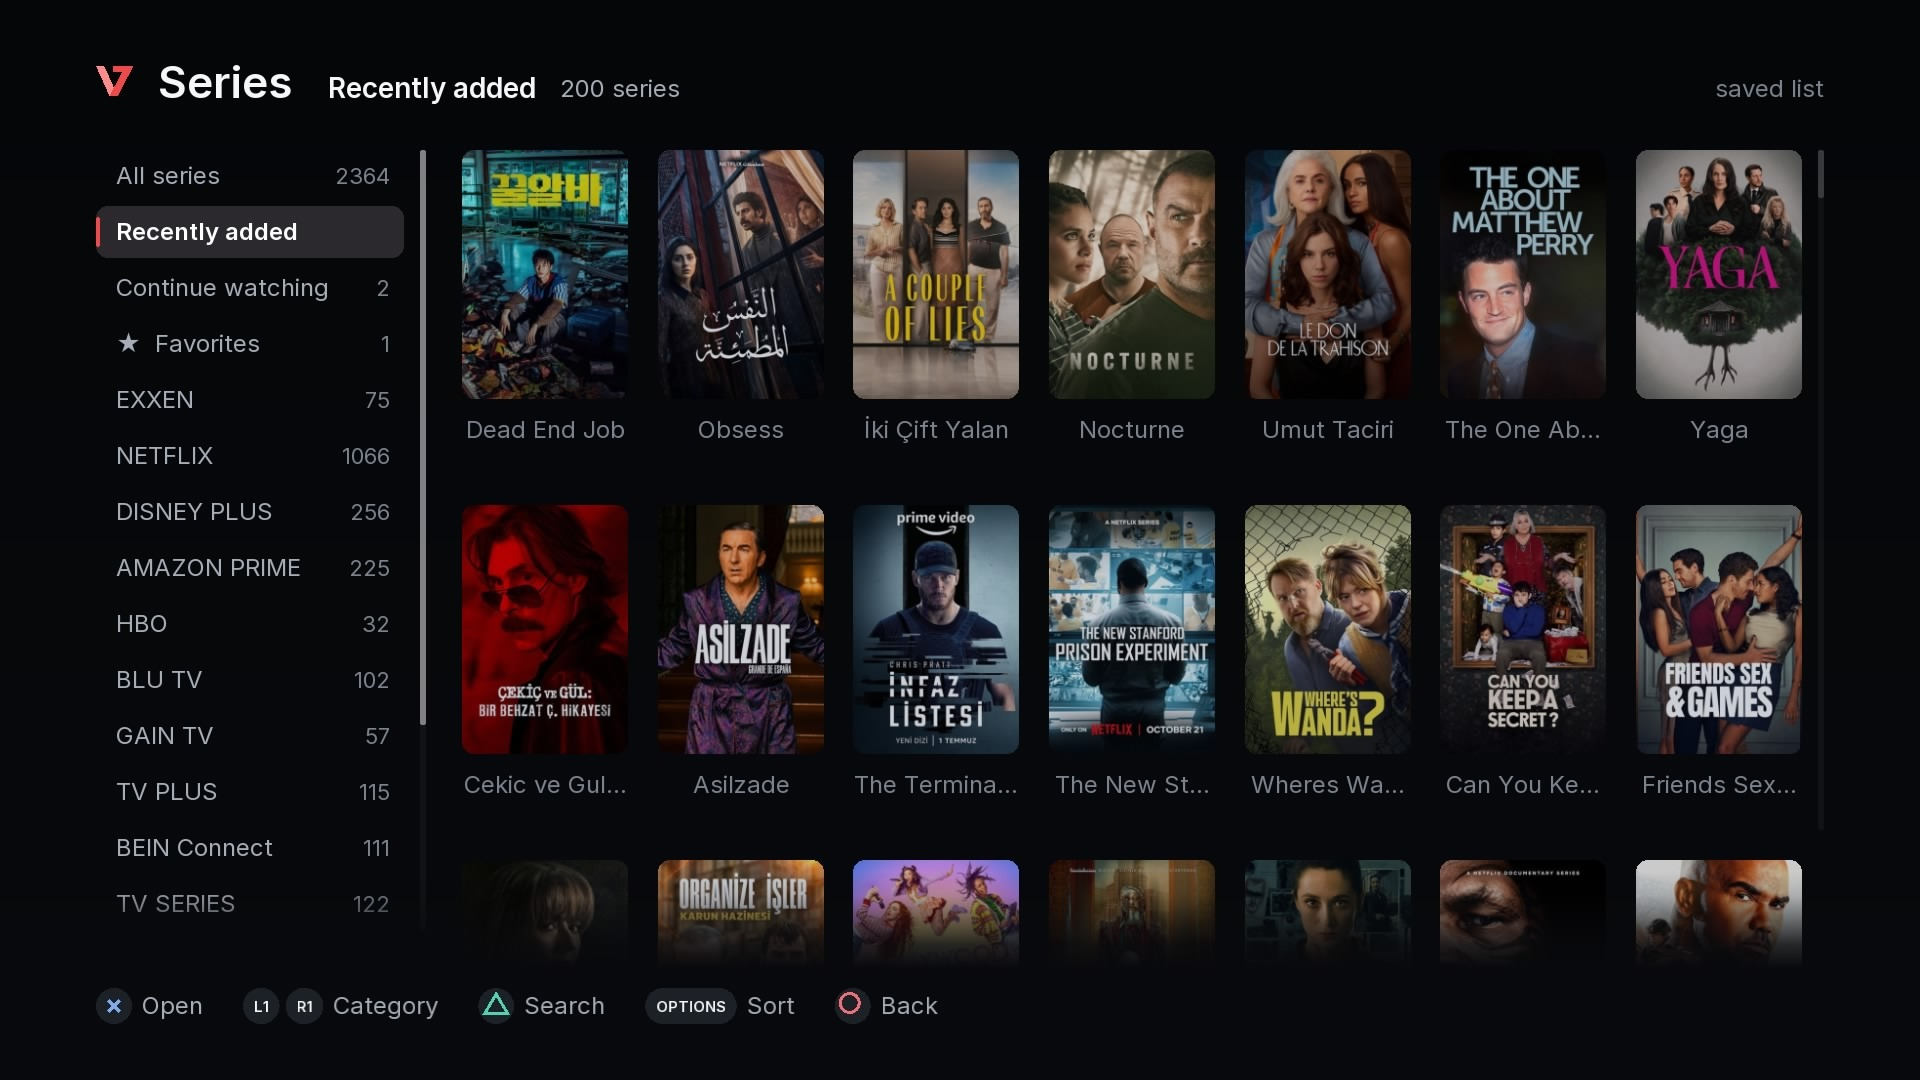
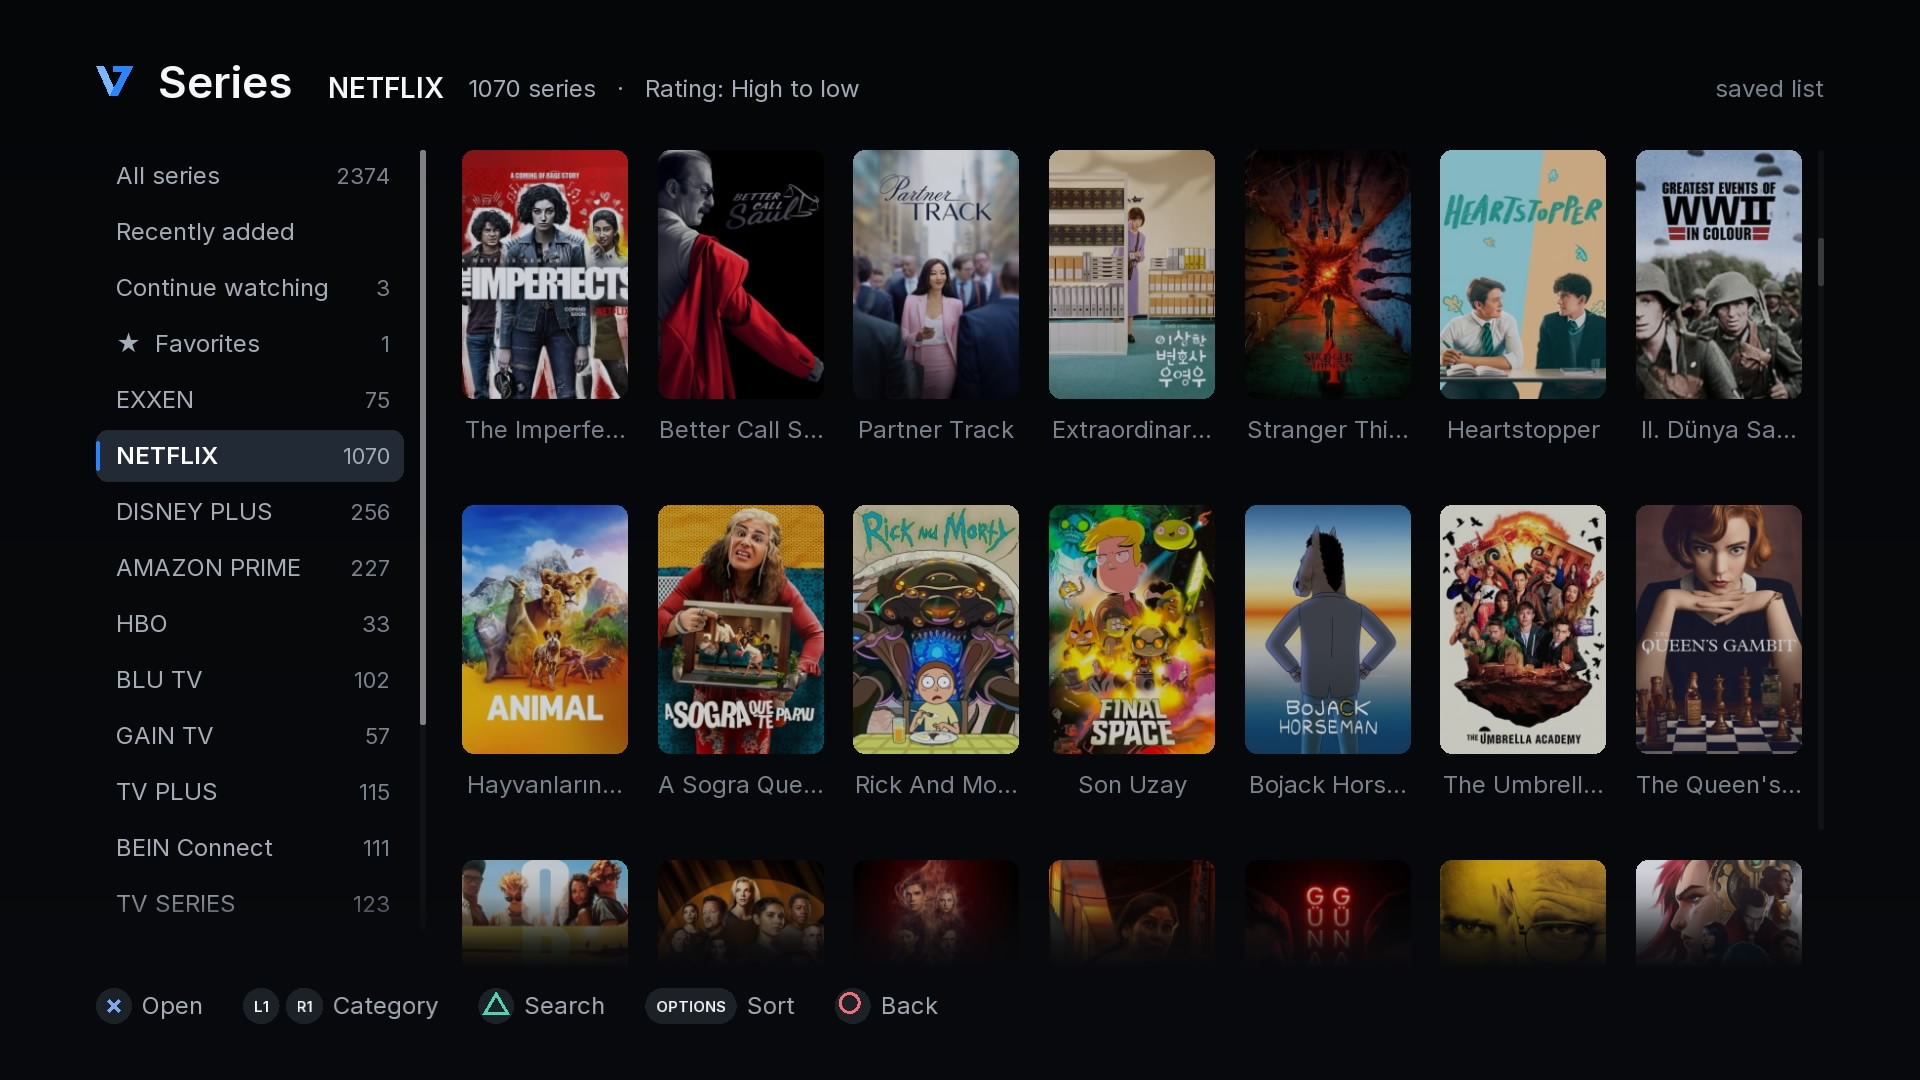
Release V7 IPTV v0.4.0
- Version 0.4.0 (PS4 APP_VER 00.40); Title ID IPTV00002 and content ID
  IV0001-IPTV00002_00-IPTV000020002000 unchanged.
- README: "A modern IPTV & media player for jailbroken PS4", the player-only
  notice, sources (Xtream Codes, M3U / M3U8, Stalker / MAG experimental),
  HTTPS streams, Local Media, keyboard, Next Episode card, limitations.
- docs/releases/v0.4.0.md: release notes from v0.3.0..v0.4.0.
- Screenshots: the approved PS4 captures (metadata stripped); the replaced
  v0.3.0 captures removed.

diff --git a/tests/host/download_bench.cpp b/tests/host/download_bench.cpp
@@ -67,7 +67,7 @@ int main(int argc, char **argv) {
     }
     curl_global_init(CURL_GLOBAL_ALL);
     std::string ca = fs::join(repo, "third_party/cacert/cacert.pem");
-    CurlTransport transport("PS4IPTV/0.3.0", fs::exists(ca) ? ca : "");
+    CurlTransport transport("PS4IPTV/0.4.0", fs::exists(ca) ? ca : "");
     std::printf("movie %s.%s, %.0f s per configuration, %.0f s between connections\n", id.c_str(), ext.c_str(),
                 seconds, gap);
     std::printf("%-9s %-8s %8s %8s %8s %8s %8s %9s %8s %6s %5s %5s %s\n", "rcvbuf", "curlbuf", "MB", "avg", "network",

diff --git a/scripts/measure-provider-download.py b/scripts/measure-provider-download.py
@@ -26,7 +26,7 @@ import urllib.request
 
 ROOT = os.path.dirname(os.path.dirname(os.path.abspath(__file__)))
 SAMPLES = os.path.join(ROOT, 'build', 'xtream-samples', 'get_vod_streams.json')
-UA = 'PS4IPTV/0.3.0'
+UA = 'PS4IPTV/0.4.0'
 
 
 def credentials():

diff --git a/README.md b/README.md
@@ -1,6 +1,6 @@
 # V7 IPTV
 
-Native, open-source IPTV and media client for jailbroken PlayStation 4 consoles, designed for TV and DualShock 4.
+A modern IPTV & media player for jailbroken PS4.
 
 <p align="center">
   <a href="../../releases/latest"><img src="https://img.shields.io/github/v/release/realityofai32-stack/PS4-IPTV?label=release" alt="Latest release"></a>
@@ -9,7 +9,7 @@ Native, open-source IPTV and media client for jailbroken PlayStation 4 consoles,
 </p>
 
 <p align="center">
-  <strong>Xtream Codes · M3U / M3U8 · Live TV · Movies · Series · Offline Downloads</strong>
+  <strong>Xtream Codes · M3U / M3U8 · Stalker / MAG · Live TV · Movies · Series · Local Media · Offline Downloads</strong>
 </p>
 
 <p align="center">
@@ -18,43 +18,77 @@ Native, open-source IPTV and media client for jailbroken PlayStation 4 consoles,
   · <a href="#building-from-source">Build from Source</a>
 </p>
 
-> **V7 IPTV is a client only.** It includes no channels, movies, series, accounts, subscriptions or playlists. Use your own legitimate source.
+> **V7 IPTV is a player only.** It provides no channels, movies, series, subscriptions, accounts, playlists,
+> credentials or copyrighted content, and it is not affiliated with any IPTV provider. You provide your own lawful
+> sources and are responsible for having permission to access, play and download their content.
 
 <p align="center">
   <img src="docs/screenshots/home.jpg" alt="V7 IPTV Home screen" width="100%">
 </p>
 
+## What's new in v0.4.0
+
+- **HTTPS streams**, including HTTPS HLS, with certificate verification
+- **Stalker / MAG portal** sources (experimental)
+- **Local Media**: play video and audio files from internal storage and USB drives
+- **USB / Bluetooth keyboard** support with US and Turkish Q layouts
+- **Refined Next Episode card**: appears before the end (adjustable), 7-second countdown, *Play now* / *Watch credits*
+- **Cleaner Home and details pages**: sharp framed posters, Continue Watching that follows series to the next episode,
+  removable Recently Watched items, L1 / R1 across the top navigation
+- **Arabic, Persian and Hebrew subtitles**: a dedicated subtitle font addressing the Arabic subtitle lag reported in
+  [#1](../../issues/1), plus network reliability, privacy and security hardening
+
+See the [v0.4.0 release notes](docs/releases/v0.4.0.md) for details.
+
 ## Highlights
 
-- **Xtream Codes** and **M3U / M3U8** sources
+- **Xtream Codes**, **M3U / M3U8** and **Stalker / MAG** (experimental) sources
 - **Live TV, Movies and Series** with categories, search, sorting and favorites
 - **Continue Watching** and **Recently Watched** with exact resume positions
-- **45-second Next Episode** countdown with Play now / Cancel and season-to-season playback
+- **Next Episode** card with Play now / Watch credits and season-to-season playback
 - **Offline downloads** for movies and episodes with resumable transfers
+- **Local Media** player for files on the console and USB drives
+- **HTTP and HTTPS** streams, HLS included
 - **Multiple audio tracks and embedded subtitles**
 - **Aspect Ratio, Crop / Fill, Zoom and video position** controls
 - **Nine accent themes** on a neutral black / charcoal interface
 - **English and Turkish UI**
-- **DualShock 4 optimized navigation** with accelerated hold-to-scroll
+- **DualShock 4 optimized navigation** with accelerated hold-to-scroll, plus keyboard support
 
 ## Screenshots
 
 <table>
   <tr>
-    <td width="50%"><img src="docs/screenshots/movies.jpg" alt="Movies"></td>
-    <td width="50%"><img src="docs/screenshots/series.jpg" alt="Series"></td>
+    <td width="50%"><img src="docs/screenshots/livetv.jpg" alt="Live TV"></td>
+    <td width="50%"><img src="docs/screenshots/search.jpg" alt="Search"></td>
+  </tr>
+  <tr>
+    <td align="center"><sub>Live TV</sub></td>
+    <td align="center"><sub>Search</sub></td>
+  </tr>
+  <tr>
+    <td><img src="docs/screenshots/movies.jpg" alt="Movies"></td>
+    <td><img src="docs/screenshots/movies_details.jpg" alt="Movie details"></td>
   </tr>
   <tr>
     <td align="center"><sub>Movies</sub></td>
+    <td align="center"><sub>Movie details</sub></td>
+  </tr>
+  <tr>
+    <td><img src="docs/screenshots/series.jpg" alt="Series"></td>
+    <td><img src="docs/screenshots/series_details.jpg" alt="Series details"></td>
+  </tr>
+  <tr>
     <td align="center"><sub>Series</sub></td>
-  </tr>
-  <tr>
-    <td><img src="docs/screenshots/series-detail.jpg" alt="Series details"></td>
-    <td><img src="docs/screenshots/search.jpg" alt="Search"></td>
-  </tr>
-  <tr>
     <td align="center"><sub>Series details</sub></td>
-    <td align="center"><sub>Search</sub></td>
+  </tr>
+  <tr>
+    <td><img src="docs/screenshots/video.jpg" alt="Playback"></td>
+    <td><img src="docs/screenshots/video_settings.jpg" alt="Playback options"></td>
+  </tr>
+  <tr>
+    <td align="center"><sub>Playback</sub></td>
+    <td align="center"><sub>Playback options</sub></td>
   </tr>
   <tr>
     <td><img src="docs/screenshots/settings.jpg" alt="Settings"></td>
@@ -64,115 +98,131 @@ Native, open-source IPTV and media client for jailbroken PlayStation 4 consoles,
     <td align="center"><sub>Settings</sub></td>
     <td align="center"><sub>Downloads</sub></td>
   </tr>
-  <tr>
-    <td><img src="docs/screenshots/live-tv.jpg" alt="Live TV"></td>
-    <td><img src="docs/screenshots/favorites.jpg" alt="Favorites"></td>
-  </tr>
-  <tr>
-    <td align="center"><sub>Live TV</sub></td>
-    <td align="center"><sub>Favorites</sub></td>
-  </tr>
-  <tr>
-    <td><img src="docs/screenshots/video.jpg" alt="Playback"></td>
-    <td><img src="docs/screenshots/video-options.jpg" alt="Playback options"></td>
-  </tr>
-  <tr>
-    <td align="center"><sub>Playback</sub></td>
-    <td align="center"><sub>Playback options</sub></td>
-  </tr>
 </table>
 
-<sub>Screenshots were captured on a real PS4. Posters, logos, artwork and media metadata shown in them come from the user's configured source and are not distributed with V7 IPTV.</sub>
+<sub>Screenshots were captured on a real PS4. Channel names, logos, posters, artwork, video frames and media
+metadata shown in them come from the user's configured source, belong to their respective owners and are not
+distributed with V7 IPTV.</sub>
 
 ## Features
 
-### Sources and browsing
+### Sources
 
-- Multiple **Xtream Codes** sources
-- **M3U / M3U8** playlists for Live TV
-- Categories, sorting and tolerant search
-- Favorites for channels, movies and series
-- Channel logos, movie/series posters and metadata
+| | Xtream Codes | M3U / M3U8 | Stalker / MAG (experimental) |
+|---|---|---|---|
+| Live TV | ✓ | ✓ | ✓ |
+| Movies / Series | ✓ | – | ✓ (when the portal offers them) |
+| Search / Favorites / Recently Watched | ✓ | ✓ | ✓ |
+| Continue Watching | ✓ | – | ✓ |
+| Offline downloads | ✓ | – | – |
+
+Multiple sources can be added. M3U / M3U8 entries are always treated as live channels. **Local Media** works without
+any source.
 
 ### Playback
 
-- Exact resume positions
-- Continue Watching and Recently Watched
-- Multiple embedded audio and subtitle tracks
-- Subtitle size, position and shadow controls
+- HTTP and HTTPS streams (MPEG-TS, HLS and other formats FFmpeg opens); HTTPS certificates are always verified
+- Exact resume positions, Continue Watching and Recently Watched
+- Multiple embedded audio and subtitle tracks, with subtitle size, position and shadow
+- Arabic, Persian and Hebrew subtitles through the bundled subtitle font
 - Aspect Ratio, Crop / Fill, Zoom and video position
-- 45-second Next Episode countdown for series
-- Automatic next-season transition when another episode is available
+- Next Episode card with automatic season-to-season playback
+
+### Stalker / MAG portals (experimental)
+
+*Add Source › Stalker / MAG Portal* takes a name, the portal address and the MAC address registered with your
+provider. V7 IPTV signs in like a MAG box, loads Live TV, Movies and Series, and asks the portal for a fresh stream
+address for every playback. Portal implementations differ between providers, so compatibility is not guaranteed.
+Portals that require a login and password for the box, EPG and catch-up are not supported, and portal sources cannot
+be downloaded. The MAC address, tokens and device identifiers are never written to the log.
+
+### Local Media
+
+*Local Media* (Home navigation, the first screen and Sources) lists internal storage (`/data`) and USB drives
+(`/mnt/usb0` … `/mnt/usb7`, when your homebrew environment gives the app access). Folders come first, then the video
+and audio files the player can open (MKV, MP4, TS / M2TS, AVI, MOV, WebM, MP3, FLAC…). Files play with the same audio,
+subtitle and video options as movies; they are not added to history, Continue Watching, favorites or search.
 
 ### Downloads
 
-Movies and series episodes from Xtream sources can be downloaded for offline playback. Interrupted downloads can resume, and playback progress is shared with the streamed version.
+Movies and series episodes from Xtream sources can be downloaded for offline playback. Interrupted downloads can
+resume, and playback progress is shared with the streamed version.
 
 ### Appearance
 
-*Settings › Appearance* includes **V7 Blue, Cyan, Teal, Green, Purple, Magenta, Red, Orange and White** accents. The base interface remains neutral black / charcoal.
-
-### Source support
-
-| | Xtream Codes | M3U / M3U8 |
-|---|---|---|
-| Live TV | ✓ | ✓ |
-| Movies / Series | ✓ | – |
-| Search / Favorites | ✓ | ✓ |
-| Continue Watching | ✓ | – |
-| Offline downloads | ✓ | – |
+*Settings › Appearance* includes **V7 Blue, Cyan, Teal, Green, Purple, Magenta, Red, Orange and White** accents. The
+base interface remains neutral black / charcoal.
 
 ## Quick Start
 
 1. Download the latest PKG from [Releases](../../releases/latest).
-2. Install it with your PS4 homebrew package installer.
+2. Install it with your PS4 homebrew package installer. It installs over earlier versions as an update and keeps your
+   sources, settings, favorites, history and downloads.
 3. Launch **V7 IPTV**.
-4. Choose **Add Source**.
-5. Add your Xtream Codes account or M3U / M3U8 playlist.
+4. Choose **Add Source** (or **Local Media** to play files on the console).
+5. Add your own Xtream Codes account, M3U / M3U8 playlist or Stalker / MAG portal.
 
-The application stores its data in `/data/PS4IPTV/`.
+<p align="center">
+  <img src="docs/screenshots/creating_profile.jpg" alt="Welcome screen with Add Source and Local Media" width="70%">
+</p>
+
+The application stores its data in `/data/PS4IPTV/`. Source details stay on the console.
 
 ## Controls
 
 | Button | Action |
 |---|---|
-| ✕ | Select / open / play; pause / resume in the player; Play now during Next Episode |
-| ○ | Back; Cancel during Next Episode |
-| □ | Favorite; download an episode; remove a Continue Watching item |
+| ✕ | Select / open / play; pause / resume in the player; Play now on the Next Episode card |
+| ○ | Back; Watch credits on the Next Episode card |
+| □ | Favorite; download an episode; remove a Continue Watching or Recently Watched item |
 | △ | Search; technical info during playback |
 | OPTIONS | Context menu / settings / playback options |
-| L1 / R1 | Previous / next category, season, tab or episode |
+| L1 / R1 | Previous / next category, season or tab; on Home: previous / next navigation item |
 | L2 / R2 | Page up / down; seek 1 minute during playback |
 | D-pad ← → | Seek 10 seconds during playback |
 
-Hold a direction to move quickly through long lists.
+Hold a direction to move quickly through long lists. Option lists change their value only with ✕.
+
+**Keyboard** (USB or Bluetooth, US or Turkish Q layout, *Settings › Language › Keyboard layout*): type into search
+and every text field; arrows = D-pad, Enter = ✕, Esc / Backspace = ○, Tab / Shift+Tab = R1 / L1, Page Up / Down =
+L2 / R2. On-screen hints follow the device you used last.
 
 ## Next Episode
 
-When another series episode is available, a panel appears during the final **45 seconds**:
+When another series episode is available, a small card appears **45 seconds** before the end (adjustable in
+*Settings › Playback › Show the Next Episode card*: 15, 30, 45, 60 or 90 seconds):
 
 - **✕ Play now** starts the next episode immediately.
-- **○ Cancel** disables auto-play for the current playback.
-- If no button is pressed, the next episode starts when the current episode ends.
+- **○ Watch credits** keeps watching without automatic playback.
+- With *Auto-play next episode* on (the default), the next episode starts after a 7-second countdown. With it off,
+  the card offers the next episode without starting it.
 
-The feature works from Series Detail and Continue Watching, follows the provider's episode order across seasons, and only advances offline when the next episode is already downloaded. It can be disabled in *Settings › Playback*.
+The card also appears when a file ends earlier than its reported length. It works from Series details and Continue
+Watching and follows the provider's episode order across seasons. In offline mode the next episode must already be
+downloaded. Continue Watching moves a series on to its next episode once the last 45 seconds are reached.
 
 ## Known limitations
 
-- **HTTPS media streams are not supported** by the bundled playback stack. API requests, images, playlist downloads and offline downloads can still use HTTPS.
+- **HTTPS streams** use TLS 1.2 (Mbed TLS): servers that only accept TLS 1.3 cannot be played, and streams with an
+  untrusted or expired certificate are refused.
+- **Stalker / MAG support is experimental** and provider-dependent (see above).
 - **M3U / M3U8 sources are Live TV only.**
 - No EPG, recording or timeshift.
 - Video is decoded in software; very high bitrates or 4K may not play smoothly.
-- Some writing systems and subtitle scripts are not fully supported.
+- Thai, Indic scripts, emoji and some CJK characters show boxes, in the interface and in subtitles. Arabic and Hebrew
+  use basic right-to-left reordering, not full shaping.
 
 ## Building from source
 
-Build and verification scripts are included in `scripts/`, with PS4 toolchain files in `cmake/`. The repository contains both Bash and PowerShell workflows for contributors.
+Build and verification scripts are included in `scripts/`, with PS4 toolchain files in `cmake/`. The repository
+contains both Bash and PowerShell workflows for contributors.
 
 ## License
 
-V7 IPTV is free software under the **GNU General Public License v3.0 or later**. See [LICENSE](LICENSE) and [NOTICE](NOTICE) for license and third-party attribution details.
+V7 IPTV is free software under the **GNU General Public License v3.0 or later**. See [LICENSE](LICENSE) and
+[NOTICE](NOTICE) for license and third-party attribution details.
 
 See [CONTRIBUTING.md](CONTRIBUTING.md) for contributions and [SECURITY.md](SECURITY.md) for security reports.
 
-PlayStation and DualShock are trademarks of Sony Interactive Entertainment Inc. This project is not affiliated with or endorsed by Sony.
+PlayStation and DualShock are trademarks of Sony Interactive Entertainment Inc. This project is not affiliated with or
+endorsed by Sony.

diff --git a/docs/releases/v0.4.0.md b/docs/releases/v0.4.0.md
@@ -1,0 +1,72 @@
+# V7 IPTV v0.4.0
+
+A modern IPTV & media player for jailbroken PS4.
+
+V7 IPTV v0.4.0 adds HTTPS streams, Stalker / MAG portals (experimental), Local Media and keyboard support, and
+refines the Home, details and playback screens. It installs over v0.3.0 and v0.2.0 as an update and keeps your
+sources, settings, favorites, history, resume positions and downloads.
+
+> **V7 IPTV is a player only.** It provides no channels, movies, series, subscriptions, accounts, playlists,
+> credentials or copyrighted content, and it is not affiliated with any IPTV provider. You provide your own lawful
+> sources.
+
+## What's new
+
+### New sources and media
+
+- **HTTPS streams**: HTTPS live channels, movies, episodes and HLS (including HTTPS segments and redirects).
+  Certificates are always verified against the bundled CA list.
+- **Stalker / MAG portals (experimental)**: add a portal with its address and the MAC address registered with your
+  provider. Live TV, Movies and Series (when the portal offers them), search, favorites and Continue Watching.
+  Compatibility depends on the provider's portal; downloads, EPG, catch-up and portals that require a box login are
+  not supported.
+- **Local Media**: browse internal storage and USB drives and play video and audio files with the full player
+  (audio / subtitle tracks, subtitle style, aspect ratio, crop and zoom). Available from Home, the first screen and
+  Sources, with no source required.
+- **Keyboard support**: a USB or Bluetooth keyboard types into search and every text field and navigates the app.
+  US and Turkish Q layouts. On-screen hints follow the device you used last.
+
+### Playback
+
+- **Next Episode card**: appears 45 seconds before the end of an episode (adjustable: 15, 30, 45, 60 or 90 seconds)
+  with **Play now** and **Watch credits**; with Auto-play on, the next episode starts after a 7-second countdown. The
+  card also appears when a file ends earlier than its reported length, and offers the next episode without starting
+  it when Auto-play is off.
+- **Continue Watching follows series**: once an episode's last 45 seconds are reached, the series' card moves on to
+  the next episode.
+- **Arabic, Persian and Hebrew subtitles**: a bundled subtitle font addresses the subtitle lag reported in #1.
+- Smoother playback: library data is saved in the background instead of during playback.
+
+### Interface
+
+- **Home**: sharp, framed showcase poster (or the provider's backdrop), cleaner Recently Watched cards that can be
+  removed, a "more" indicator on rails, and **L1 / R1** to move through the top navigation.
+- **Movie and Series details**: plain dark pages with framed posters, provider episode images and the focused
+  episode's synopsis.
+- **Settings**: multi-value settings open a choice list; the D-pad only moves, ✕ changes the value.
+- Fixed list and grid rows that could show the wrong item after fast scrolling.
+
+### Reliability, privacy and security
+
+- Sign-ins and catalog loads retry briefly after temporary network errors, with clearer messages for certificate
+  and connection problems.
+- Network requests are limited to HTTP and HTTPS; requests carrying credentials never follow a redirect from HTTPS
+  to HTTP, and portal requests stay on their host.
+- Stream addresses, MAC addresses, tokens and device identifiers are kept out of the log; the log size is capped.
+
+## Install
+
+1. Download `IV0001-IPTV00002_00-IPTV000020002000.pkg` from the release page.
+2. Install it with the package installer of your PS4 homebrew environment.
+3. Launch **V7 IPTV** and add your own source, or open **Local Media**.
+
+App data stays in `/data/PS4IPTV/`.
+
+## Known limitations
+
+- HTTPS streams use TLS 1.2: servers that only accept TLS 1.3 cannot be played.
+- Stalker / MAG support is experimental and provider-dependent.
+- M3U / M3U8 sources are Live TV only.
+- No EPG, recording or timeshift.
+- Video is decoded in software; very high bitrates or 4K may not play smoothly.
+- Thai, Indic scripts, emoji and some CJK characters show boxes, in the interface and in subtitles.
